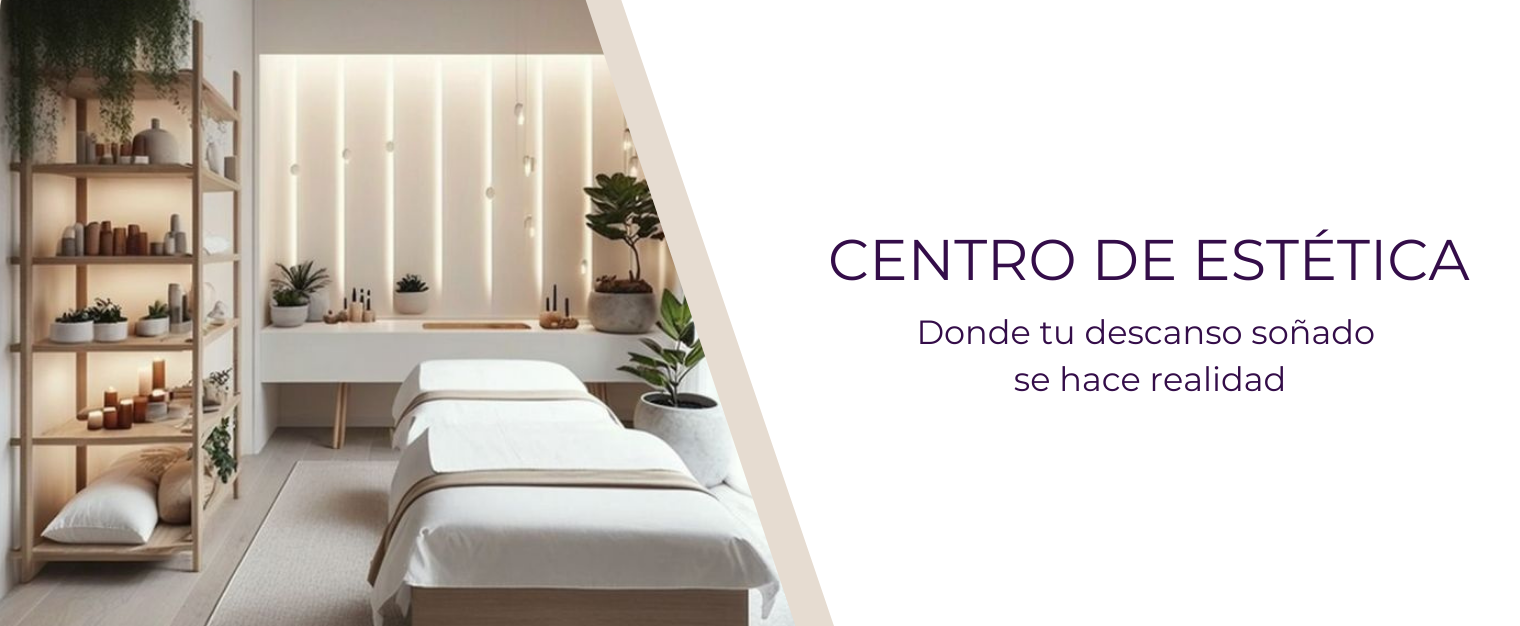
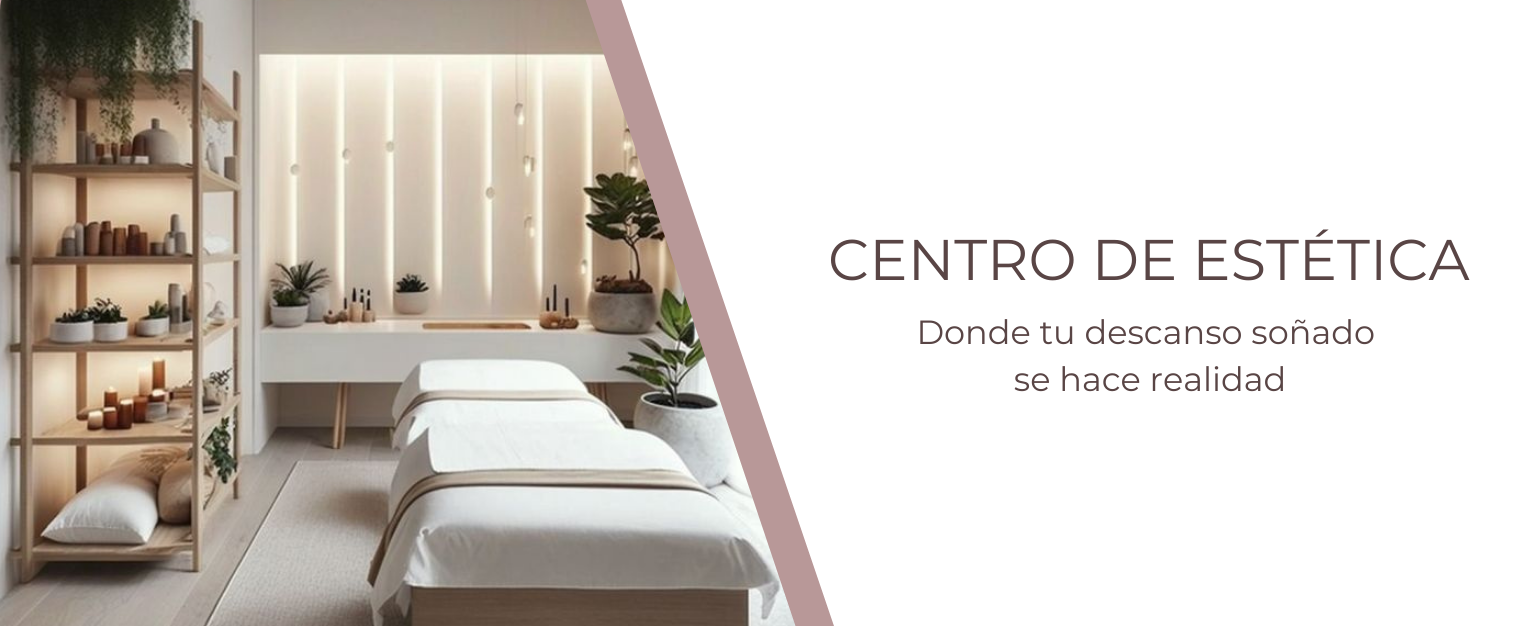
css home

diff --git a/ziba-react/src/app/components/footer/footer.tsx b/ziba-react/src/app/components/footer/footer.tsx
@@ -11,19 +11,19 @@ export const Footer = () => {
                 </div>              
                 <div className='redes'>
                     <a href="https://www.facebook.com" target="_blank" className='links'>
-                    <img width="50" height="50" src="https://img.icons8.com/ios-filled/50/ddc9dd/facebook-new.png" alt="facebook-new"/>
+                    <img width="50" height="50" src="https://img.icons8.com/ios-filled/50/f4f3ed/facebook-new.png" alt="facebook-new"/>
                     <p className='linkText'>Estética Zibá</p>
                     </a>
                     <a href="https://www.instagram.com/" target="_blank" className='links'>
-                    <img width="50" height="50" src="https://img.icons8.com/ios-filled/50/ddc9dd/instagram-new--v1.png" alt="instagram-new--v1"/>
+                    <img width="50" height="50" src="https://img.icons8.com/ios-filled/50/f4f3ed/instagram-new--v1.png" alt="instagram-new--v1"/>
                     <p className='linkText'>zibá_estética</p>
                     </a>
                     <a href="https://web.whatsapp.com/" target="_blank" className='links'>
-                    <img width="50" height="50" src="https://img.icons8.com/ios-filled/50/ddc9dd/whatsapp--v1.png" alt="whatsapp--v1"/>
+                    <img width="50" height="50" src="https://img.icons8.com/ios-filled/50/f4f3ed/whatsapp--v1.png" alt="whatsapp--v1"/>
                     <p className='linkText'>2284222503</p>
                     </a>
                     <a href="https://maps.app.goo.gl/KCByA2hp8C2tAaZK9" target="_blank" className='links'>
-                    <img width="50" height="50" src="https://img.icons8.com/ios-filled/50/ddc9dd/marker.png" alt="marker"/>
+                    <img width="50" height="50" src="https://img.icons8.com/ios-filled/50/f4f3ed/marker.png" alt="marker"/>
                     <p className='linkText'>Gral. Paz 2811</p>
                     </a>
                 </div>

diff --git a/ziba-react/src/app/components/cardProfessional/cardProfessional.css b/ziba-react/src/app/components/cardProfessional/cardProfessional.css
@@ -5,7 +5,7 @@
     justify-content: center;
     align-items: center;
     padding-bottom: 2%;
-    color: #423155;
+    color: #594545;
 }
 
 .img-carousel{
@@ -17,12 +17,12 @@
 }
 
 .square-carousel{
-    background-color: rgba(244, 243, 237, 1);
+    background-color: #f4f3ed;
     height: 150px;
     width: 255px;
     margin-top: 10px;
     padding: 5px;
-    box-shadow: 2px 2px 2px 2px #e0d2e2 ;
+    box-shadow: 2px 2px 2px 2px #b89898 ;
 }
 
 .cards-carousel{
@@ -44,12 +44,12 @@
    
 }
 .button-reservation{
-    background-color: #987a9d;
+    background-color: #815b5b;
     width:340px ;
     height: 45px;
     color: white;
     font-size: 20px;
-    border-color: #987a9d;
+    border-color: #815b5b;
     border-bottom:none ;
     border-right: none;
 }
@@ -58,20 +58,20 @@
 .card-content{
     width: 18rem;
     border-radius: 0%;
-    border-color: #423155;
+    border-color: #594545;
     
 }
 
 .title-card{
     text-align: center;
     text-transform: uppercase;
-    color: #423155;
+    color: #594545;
     
 }
 
 .title-text{
     text-align: center;
-    color: #423155;
+    color: #594545;
 }
 
 

diff --git a/ziba-react/src/app/components/footer/footer.css b/ziba-react/src/app/components/footer/footer.css
@@ -19,11 +19,11 @@
     align-items: stretch;
     flex-direction: column;
     align-items: center;
-    /* flex-wrap: wrap; */
+    
 }
 
 .redes {
-    background-color: #423155;
+    background-color: #815b5b;
     padding: 30px;
     display: flex;
     flex-direction: row;
@@ -31,11 +31,13 @@
     align-items: flex-start;
     width: fit-content;
     width: 100%;
+  
 }
 
 a {
-    color:#ddc9dd;
-    text-decoration: none;
+    color:#f4f3ed;
+    text-decoration: none !important;
+    
 }
 
 
@@ -50,24 +52,11 @@ a {
     width: 170px;
     justify-content: center;
     margin-top: 4%;
-    color:#ddc9dd;
+    color:#f4f3ed;
+    
  
 }
 
-/*
-.mapa{
-   display: flex;
-   justify-self: flex-end;
-   align-self: right;
-   width: 30%;
-   height: auto;
-   
-   & iframe{
-    width: 100%;
-    
-   }
-}
-*/
 
 .mapa{
     display:flex;

diff --git a/ziba-react/src/app/components/cafe/cafe.css b/ziba-react/src/app/components/cafe/cafe.css
@@ -9,7 +9,7 @@
     display: flex;
     justify-content: center;
     align-items: center;
-    color: #423155;
+    color: #594545;
     margin-top: 10%;
 }
 .img-cafeteria{
@@ -28,7 +28,7 @@
 .square-violet{
     height: 210px;
     width: 370px;
-    background-color: #d0c1cf98;
+    background-color: #b8989871;
     position: absolute;
     margin-top: 270px;
     margin-right: 340px;
@@ -39,12 +39,13 @@
     margin-top: 20px;
     margin-left: 20px;
     margin-right: 20px;
+    color: #594545;
 }
 
 .border-violet{
     height: 210px;
     width: 370px;
-    border: 2px solid rgb(138, 90, 138);
+    border: 2px solid #594545;
     position: absolute;
     margin-top: 285px;
     margin-right: 320px;

diff --git a/ziba-react/src/app/components/nav/nav.css b/ziba-react/src/app/components/nav/nav.css
@@ -26,7 +26,7 @@
     font-size: 18px;
     display: flex;
     align-items: center !important;
-    color: #423155;
+    color: #594545;
     transition: .3;
 }
 
@@ -35,7 +35,7 @@
     text-decoration: none;
     font-size: 18px;
     align-items: center !important;
-    color: #423155;
+    color: #594545;
     transition: .3;
 }
 
@@ -45,12 +45,12 @@
 }
 
 .links:hover{
-    border-bottom: .5px solid #423155;
-    color: #a9a2b1 ;
+    border-bottom: .5px solid #594545;
+    color: #b89898 ;
 }
 
 .bi{
-    color:#423155;
+    color:#594545;
     font-size: 30px;
 
 }

diff --git a/ziba-react/src/app/components/infoHome/infoHome.css b/ziba-react/src/app/components/infoHome/infoHome.css
@@ -1,5 +1,5 @@
 .square-info-home{
-    background-image:url(./../../../../public/imagenes/background-infohome.png);
+    background-color: #B89898;
     width: 100%;
     height: 400px;
     margin-top: 10%;
@@ -19,7 +19,7 @@
 .title-info-home{
     text-align: center;
     font-size: 30px;
-    color: #423155;
+    color: #594545;
     padding-top: 20px;
 }
 
